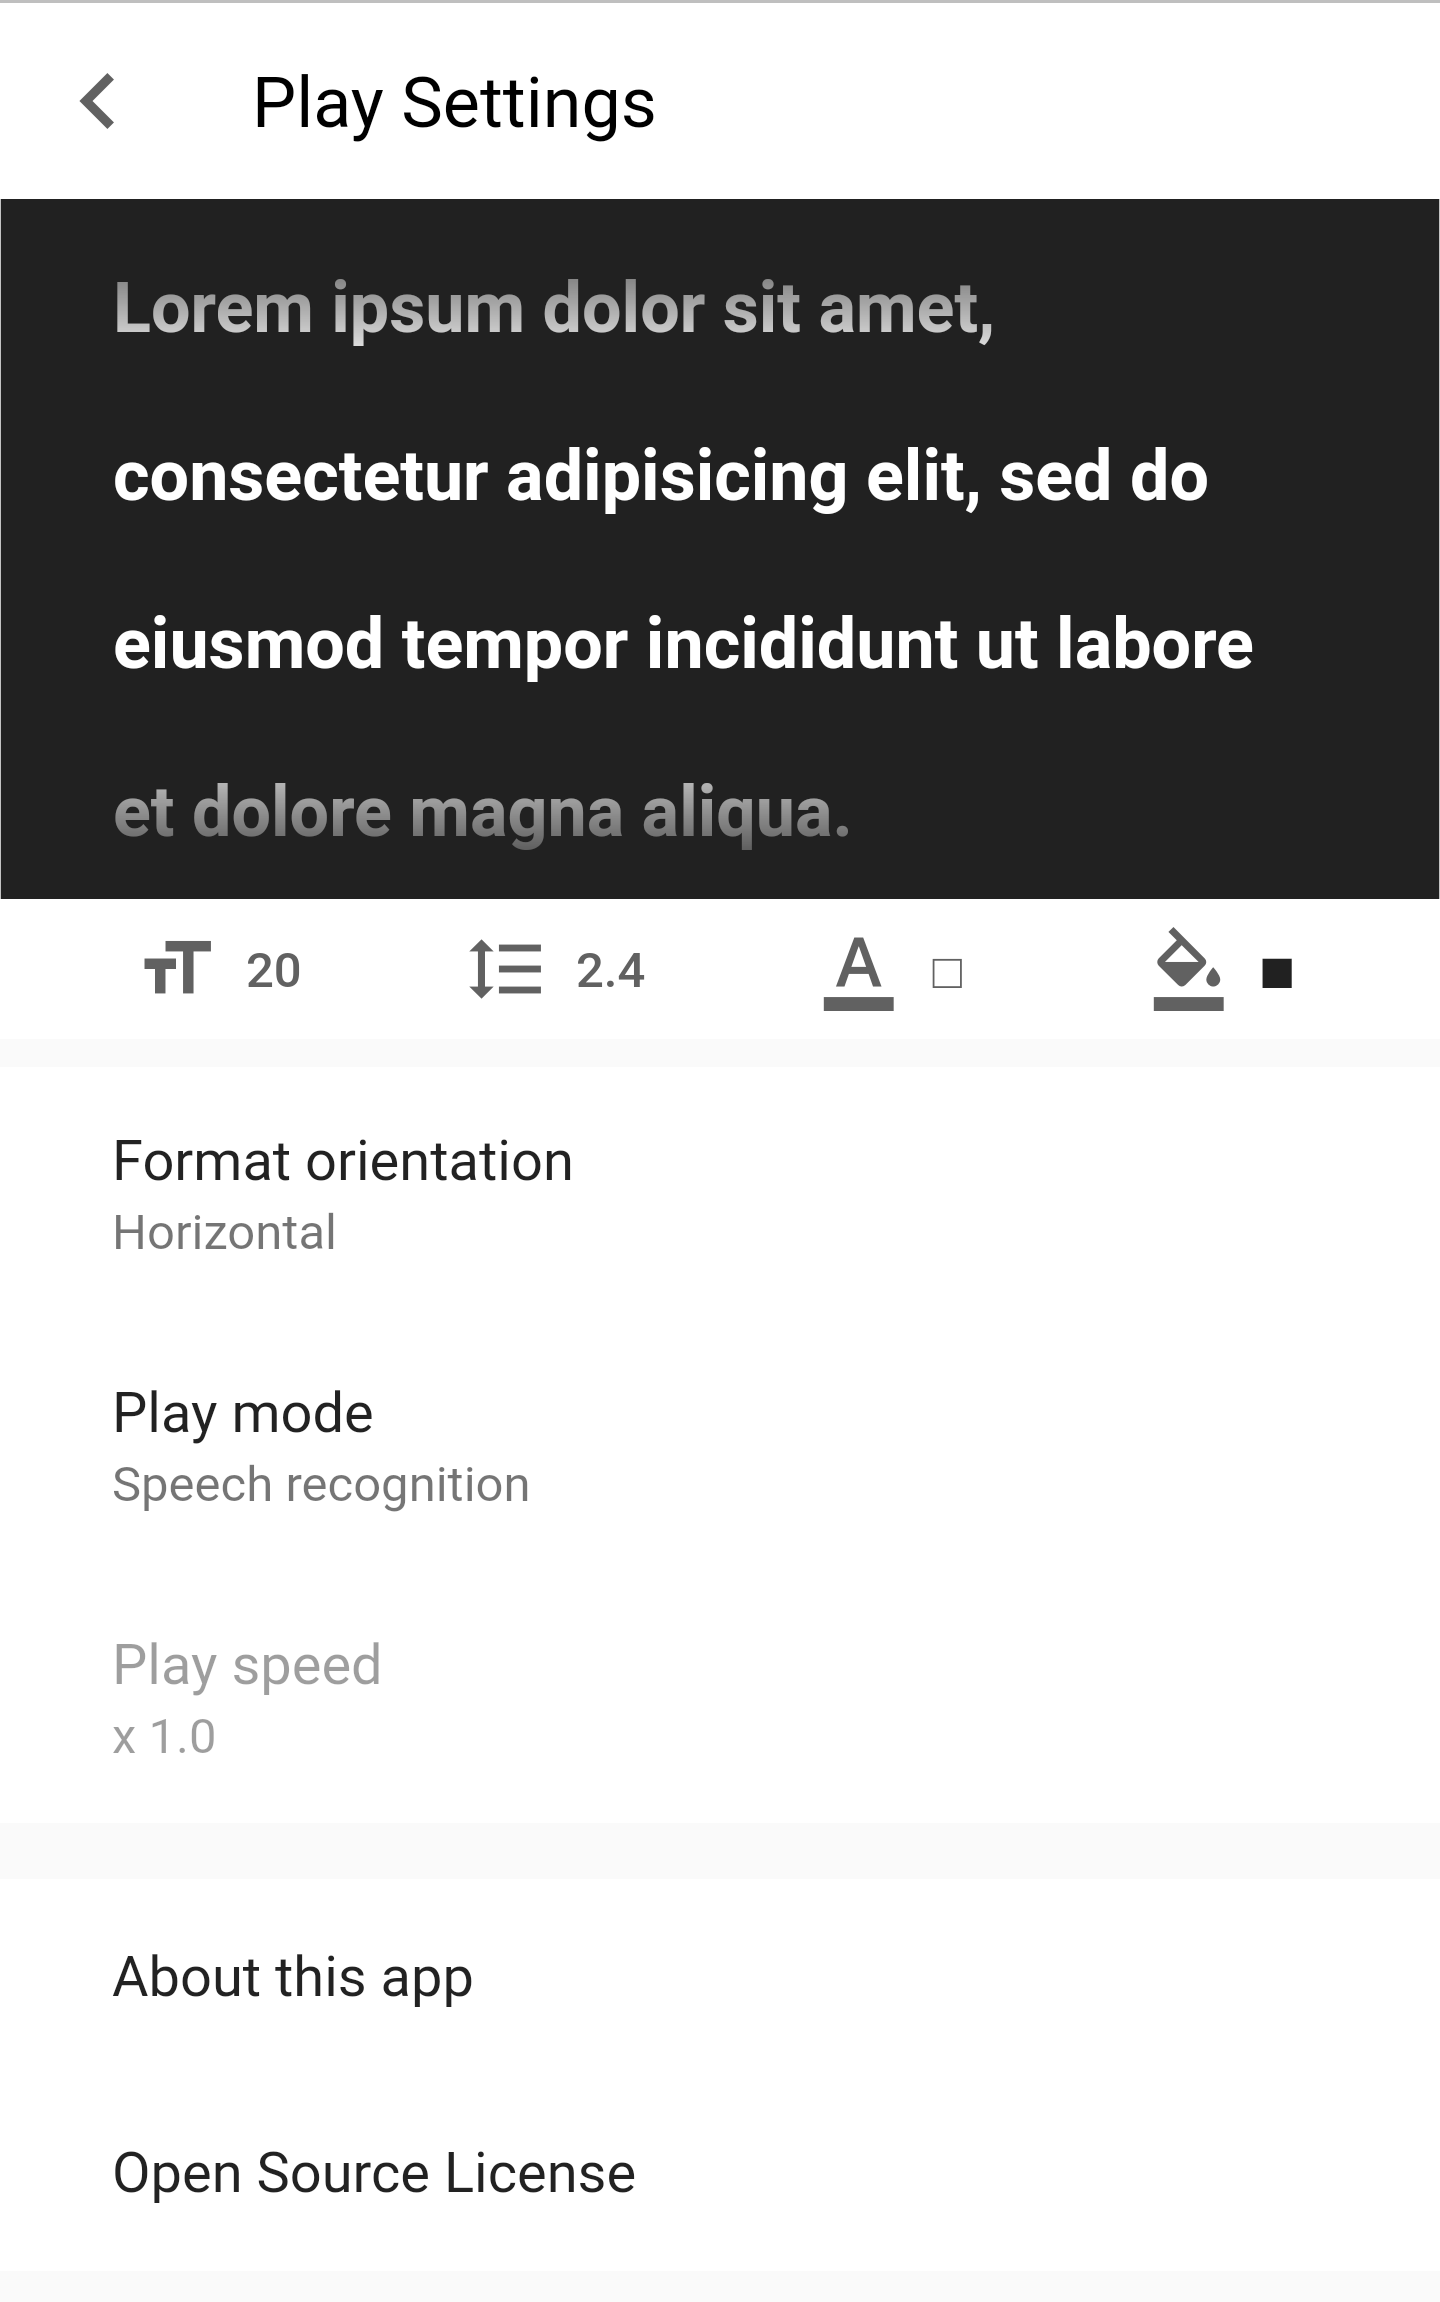
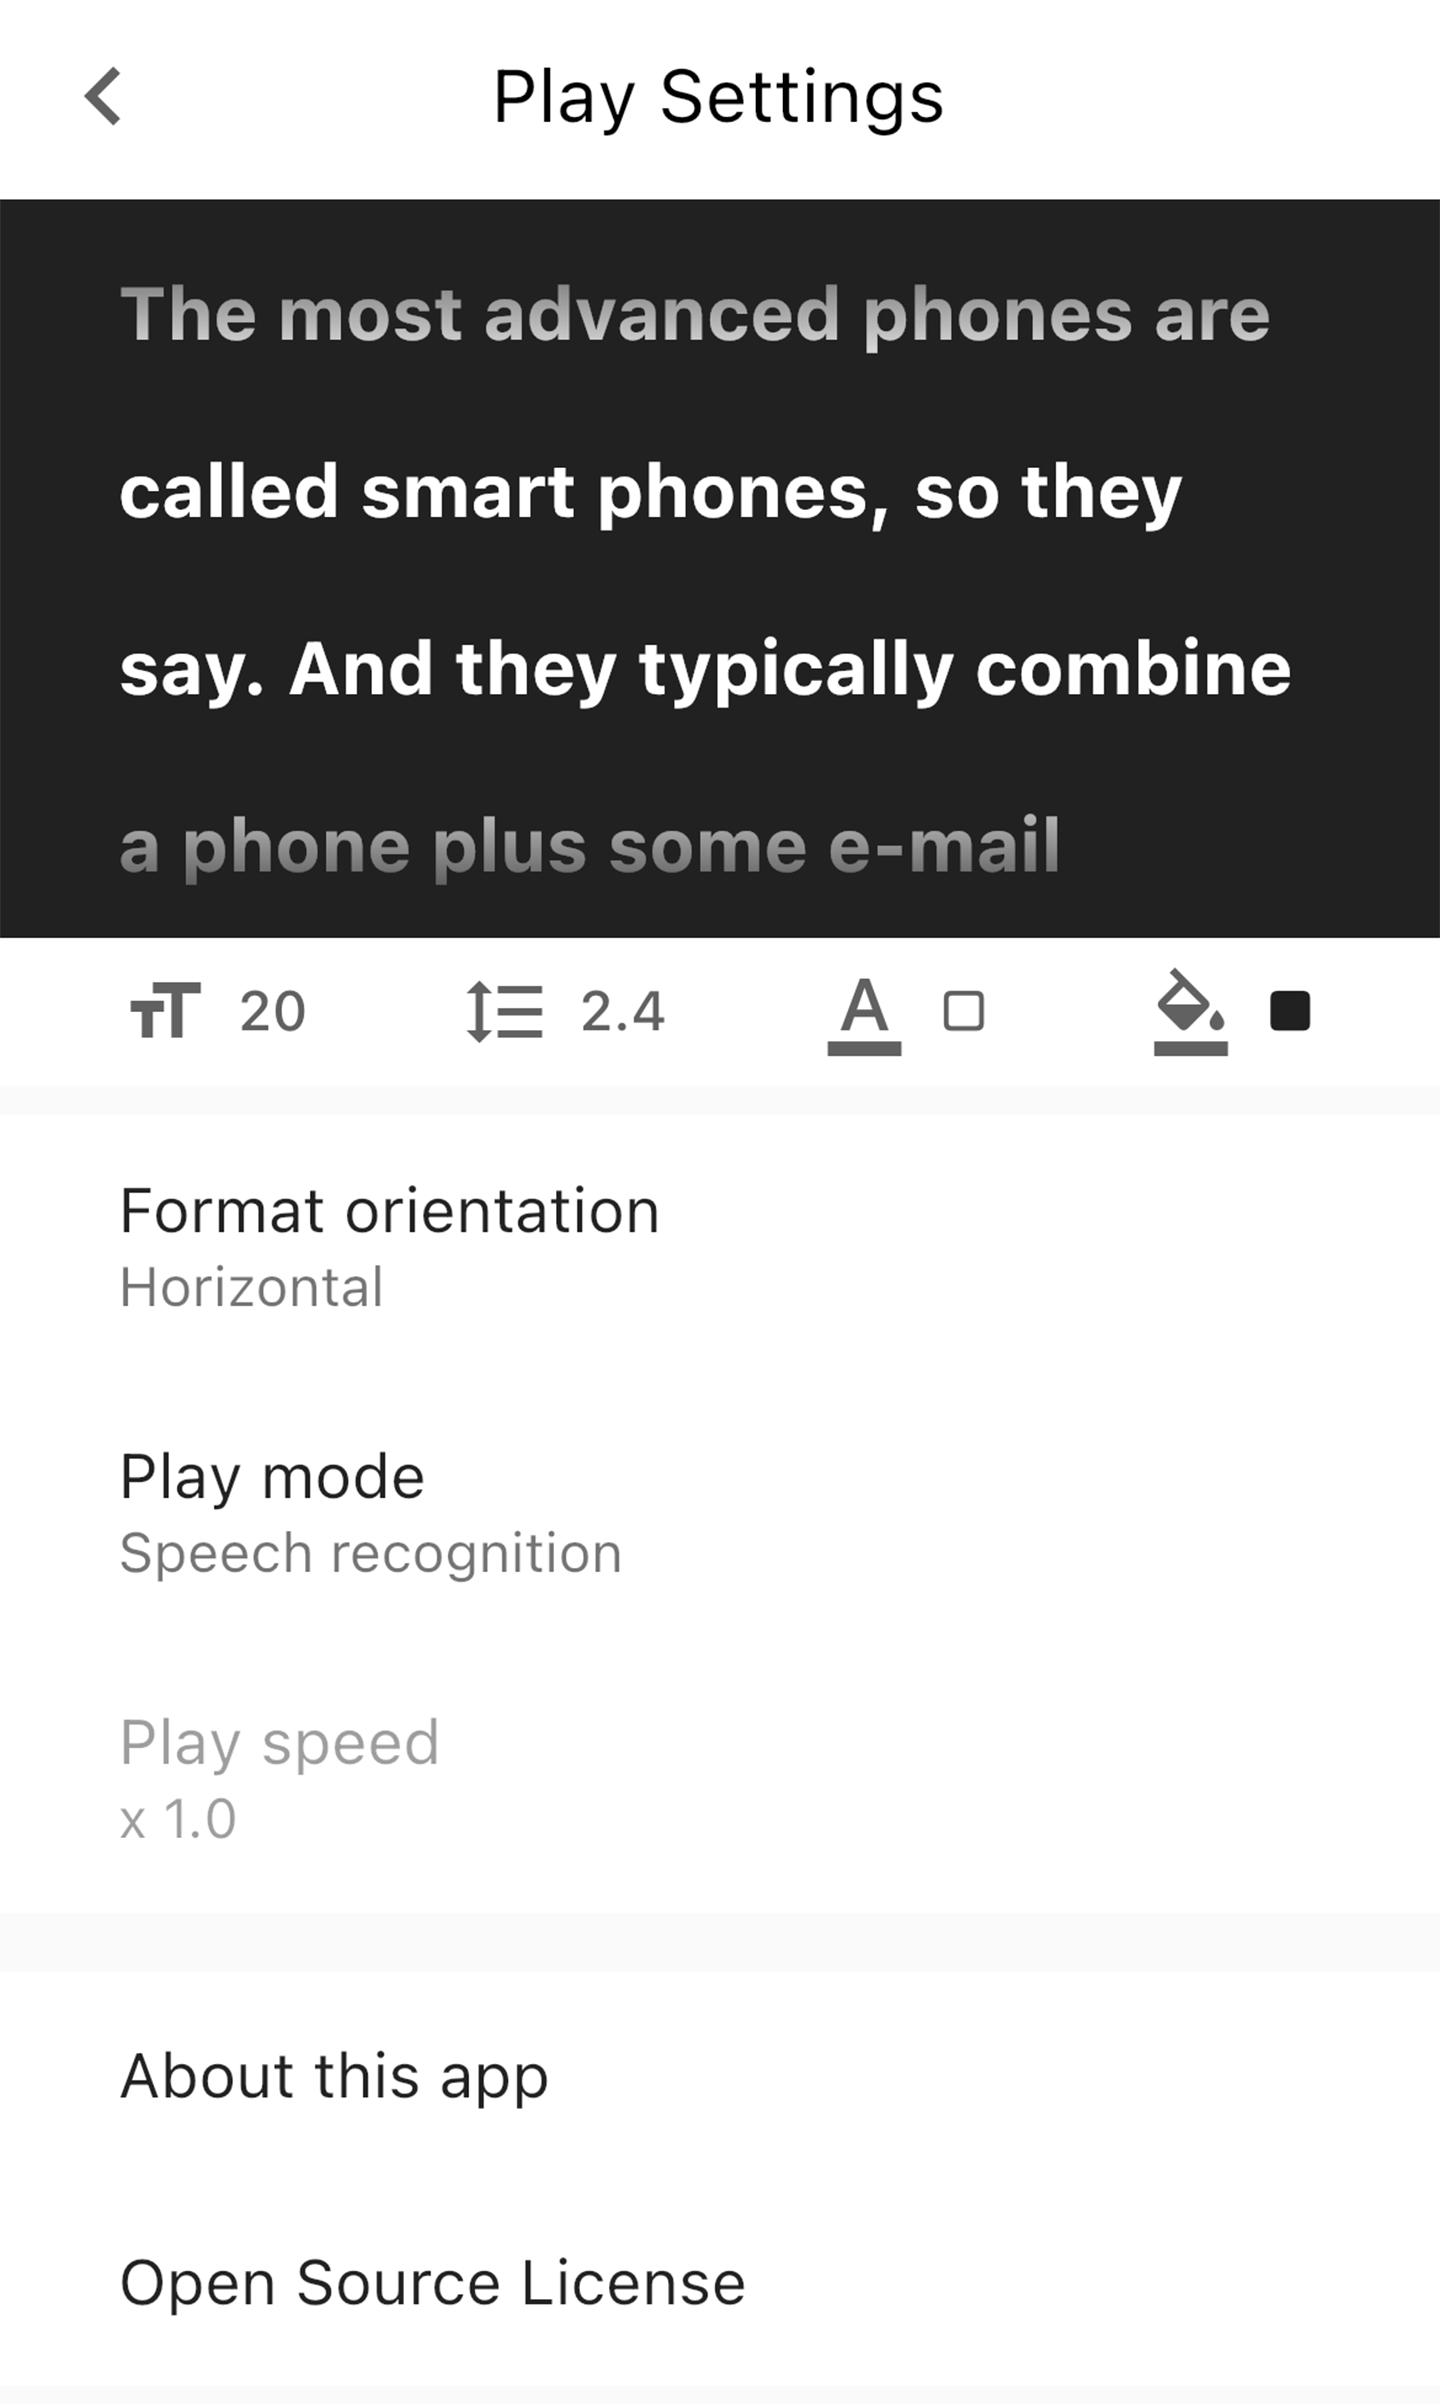
英語版のサンプルテキスト変更

diff --git a/lib/config/sample_text_config.dart b/lib/config/sample_text_config.dart
@@ -53,6 +53,7 @@ class _En implements _Locale {
       "This is what iPhone is.";
 
   final String setting =
-      "Lorem ipsum dolor sit amet, consectetur adipisicing elit, sed do eiusmod tempor incididunt ut labore et dolore magna aliqua.\n"
-      "Ut enim ad minim veniam, quis nostrud exercitation ullamco laboris nisi ut aliquip ex ea commodo consequat.";
+      "The most advanced phones are called smart phones, so they say. "
+      "And they typically combine a phone plus some e-mail capability, plus they say it’s the Internet.\n"
+      "It’s sort of the baby Internet into one device, and they all have these little plastic keyboards on them. ";
 }
